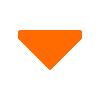
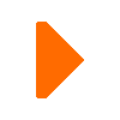
Changes screen orientation for the x-th time.

Changed region(s): [[0.18, 0.15, 0.84, 0.84]]

diff --git a/source/racer/main.js b/source/racer/main.js
@@ -189,36 +189,52 @@ class PauseScene extends Phaser.Scene
     constructor() {
         super({key: 'ScenePause'});  
     }
+
     preload(){
         pauseScene = this.scene;
         this.load.image('imgBack', 'source/assets/img_back.png');
         this.load.image('start', 'source/assets/right.png');
         this.load.image('star', 'source/assets/star.png');
         this.load.image('title', 'source/assets/title.png');
+        this.load.image('turn_mobile', 'source/assets/turn_mobile.png');
     }
 
     create(){ 
         this.sprBack = this.add.image(SCREEN_CX, SCREEN_CY, 'imgBack');
-        var startSprite = this.add.sprite(SCREEN_CX, SCREEN_CY, 'start').setVisible(true)
-        var titleSprite = this.add.sprite(SCREEN_CX * (3/4) , SCREEN_CY, 'title').setVisible(true)
-        titleSprite.angle = 90;
-        titleSprite.displayWidth = SCREEN_H;
-
-        this.input.keyboard.on('keydown-SPACE', function() {
-            this.scene.resume('SceneMain');
-            this.scene.stop();
-        }, this);
-        window.addEventListener('resize', function (event) {
-            if(event.target.screen.availHeight < event.target.screen.availWidth) {
-                isInPortrait = false;
+        //Start button
+        var startSprite = this.add.sprite(SCREEN_CX, SCREEN_CY, 'start').setVisible(true);
+        startSprite.setInteractive();
+        startSprite.on('pointerdown', () => {
+            if(screen.availHeight < screen.availWidth) {
+                //in landscape
                 startSprite.setVisible(false);
                 titleSprite.setVisible(false);
-                pauseScene.pause();
-                pauseScene.resume('SceneMain');
+                this.scene.resume('SceneMain');
+                this.scene.stop();
+            } else {
+                turnMobileSprite.setVisible(true);
+            }
+        });
+        //title
+        var titleSprite = this.add.sprite(SCREEN_CX * (1/4) , SCREEN_CY, 'title').setVisible(true)
+        titleSprite.displayWidth = SCREEN_H;
+        
+        //information turn mobile
+        var turnMobileSprite = this.add.sprite(SCREEN_H, SCREEN_W, 'turn_mobile').setVisible(false);
+
+        window.addEventListener('resize', function (event) {
+            if(event.target.screen.availHeight < event.target.screen.availWidth) {
+                //in landscape
+                startSprite.angle = 90;
+                titleSprite.angle = 90;
+            } else {
+                //in portrait mode
+                startSprite.angle = 0;
+                titleSprite.angle = 0;
+                turnMobileSprite.setVisible(false);
             }
         }, this);
     }
-
 }
 
 //game configuration

diff --git a/source/racer/player.js b/source/racer/player.js
@@ -38,7 +38,7 @@ class Player
         this.screen.w = this.sprite.width;
         this.screen.h = this.sprite.height;
         this.screen.x = SCREEN_CX;
-        this.screen.y = SCREEN_H;     
+        this.screen.y = SCREEN_H - (this.screen.h/4);     
     }
 
     startGyro() {
